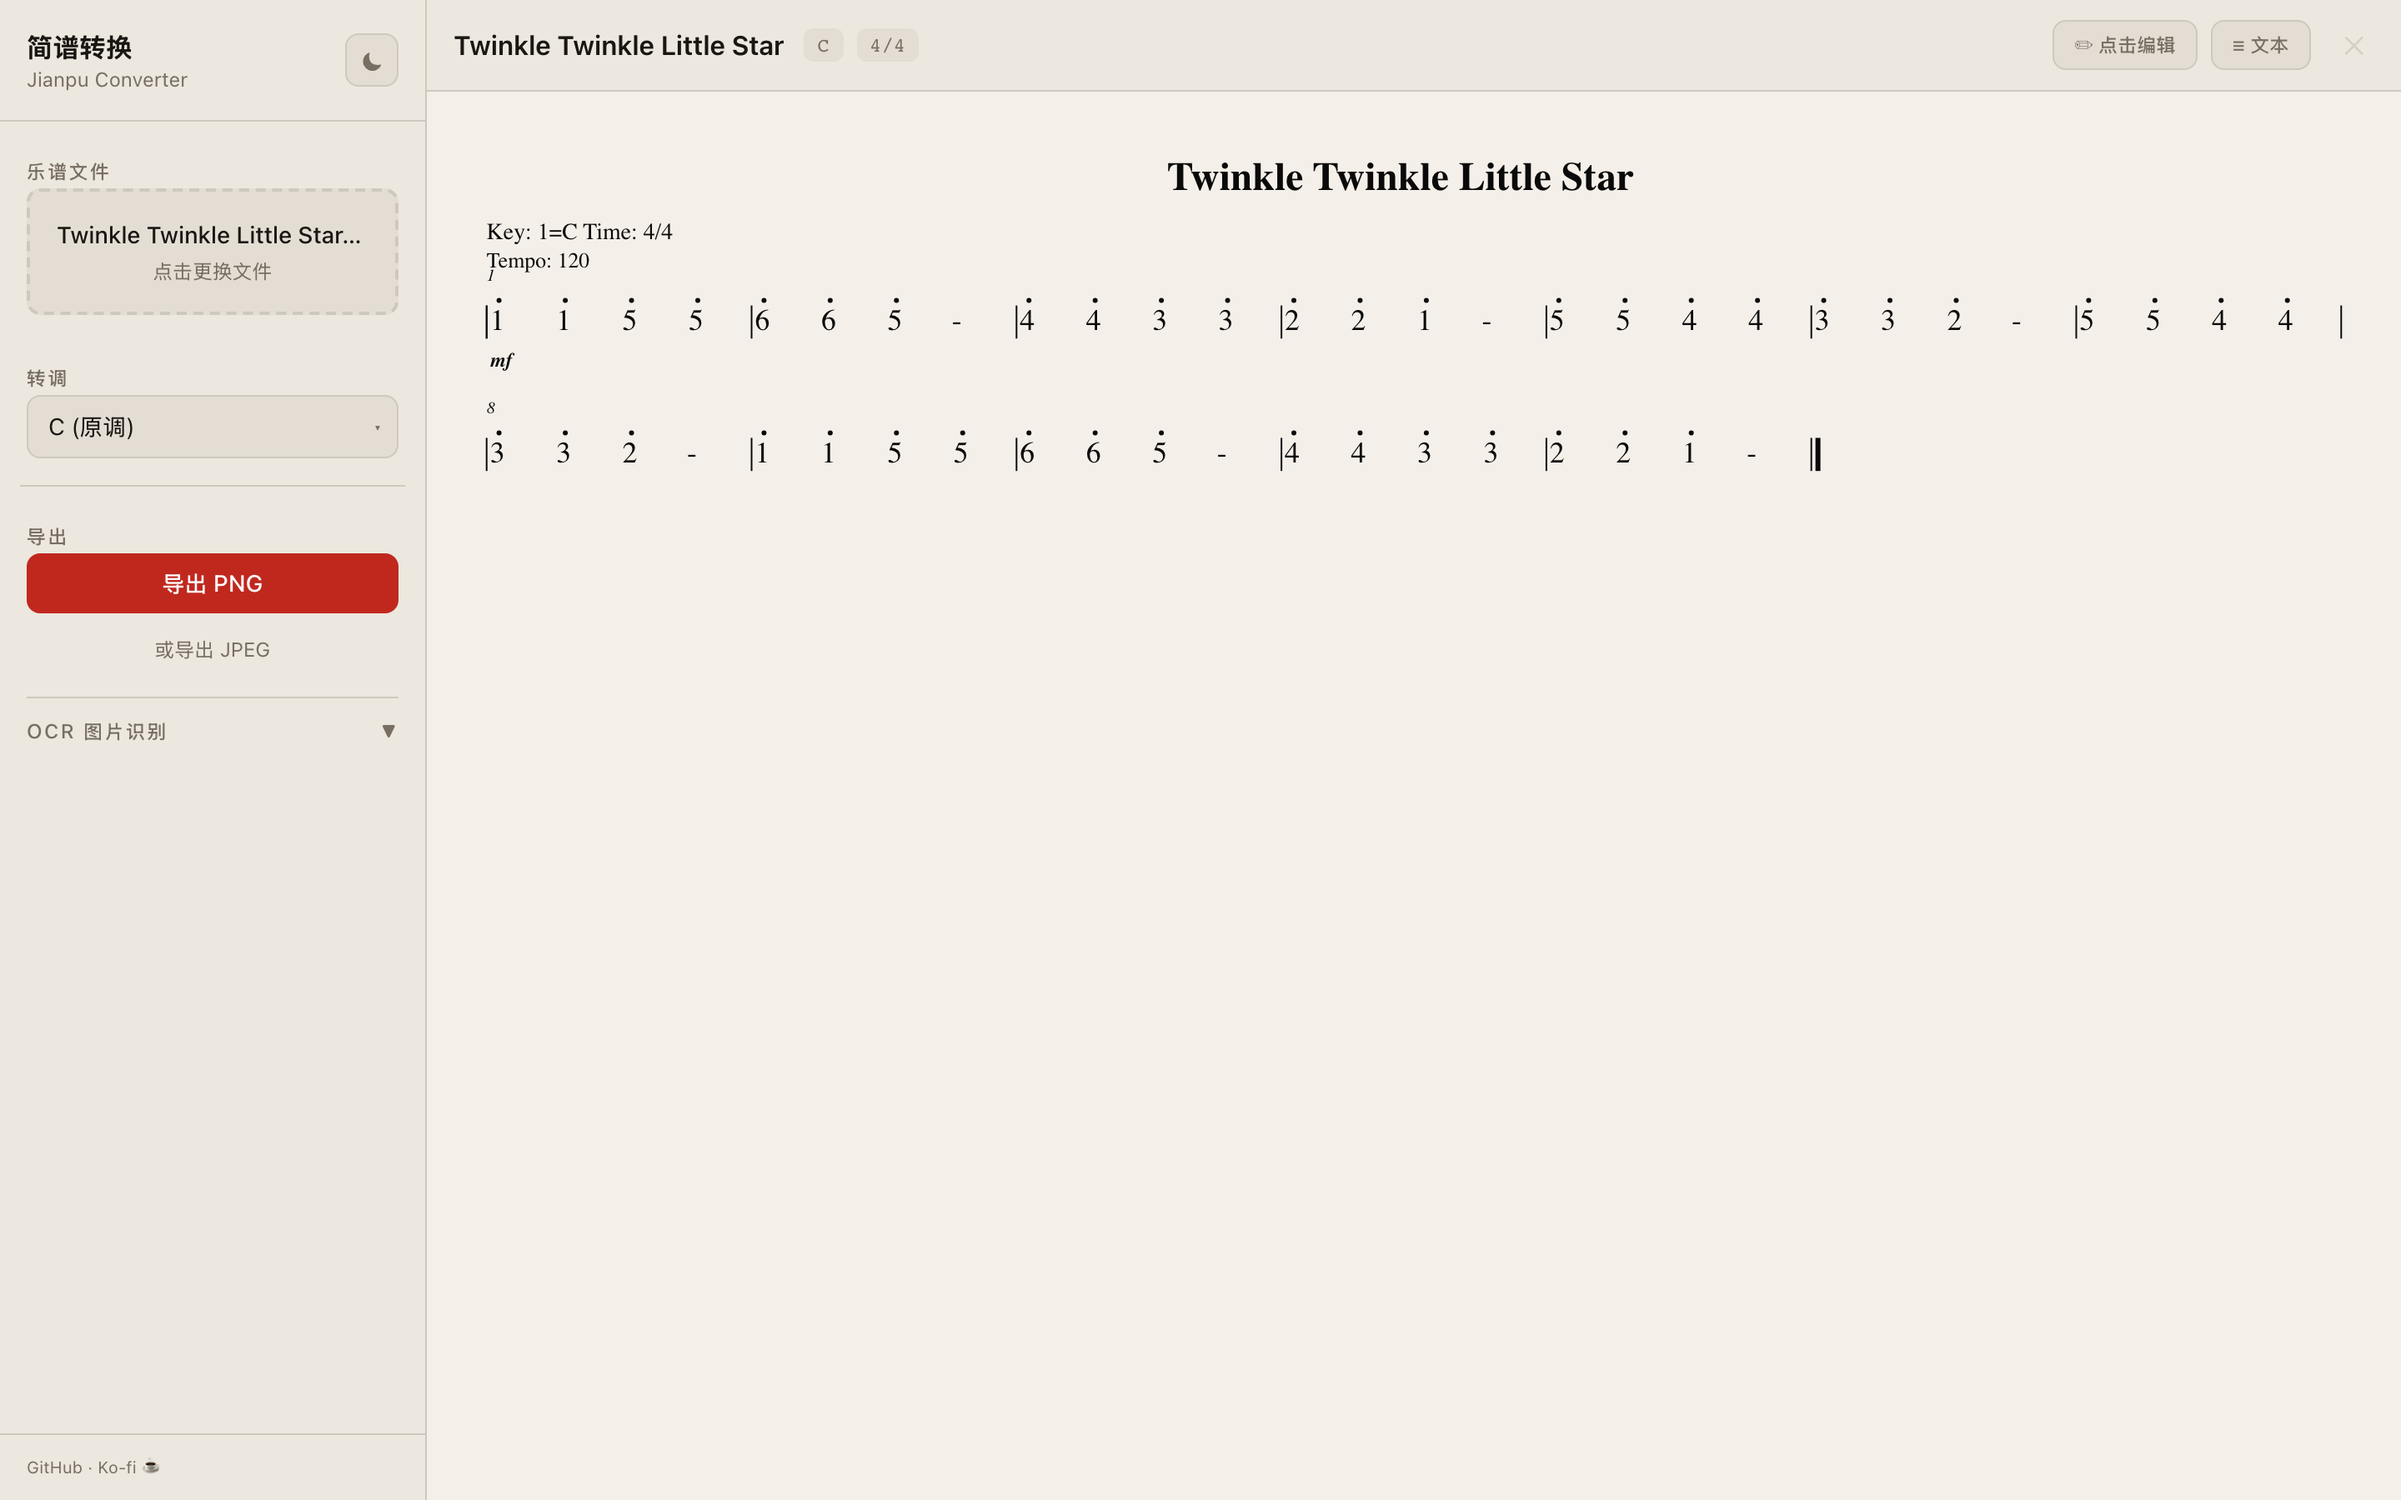
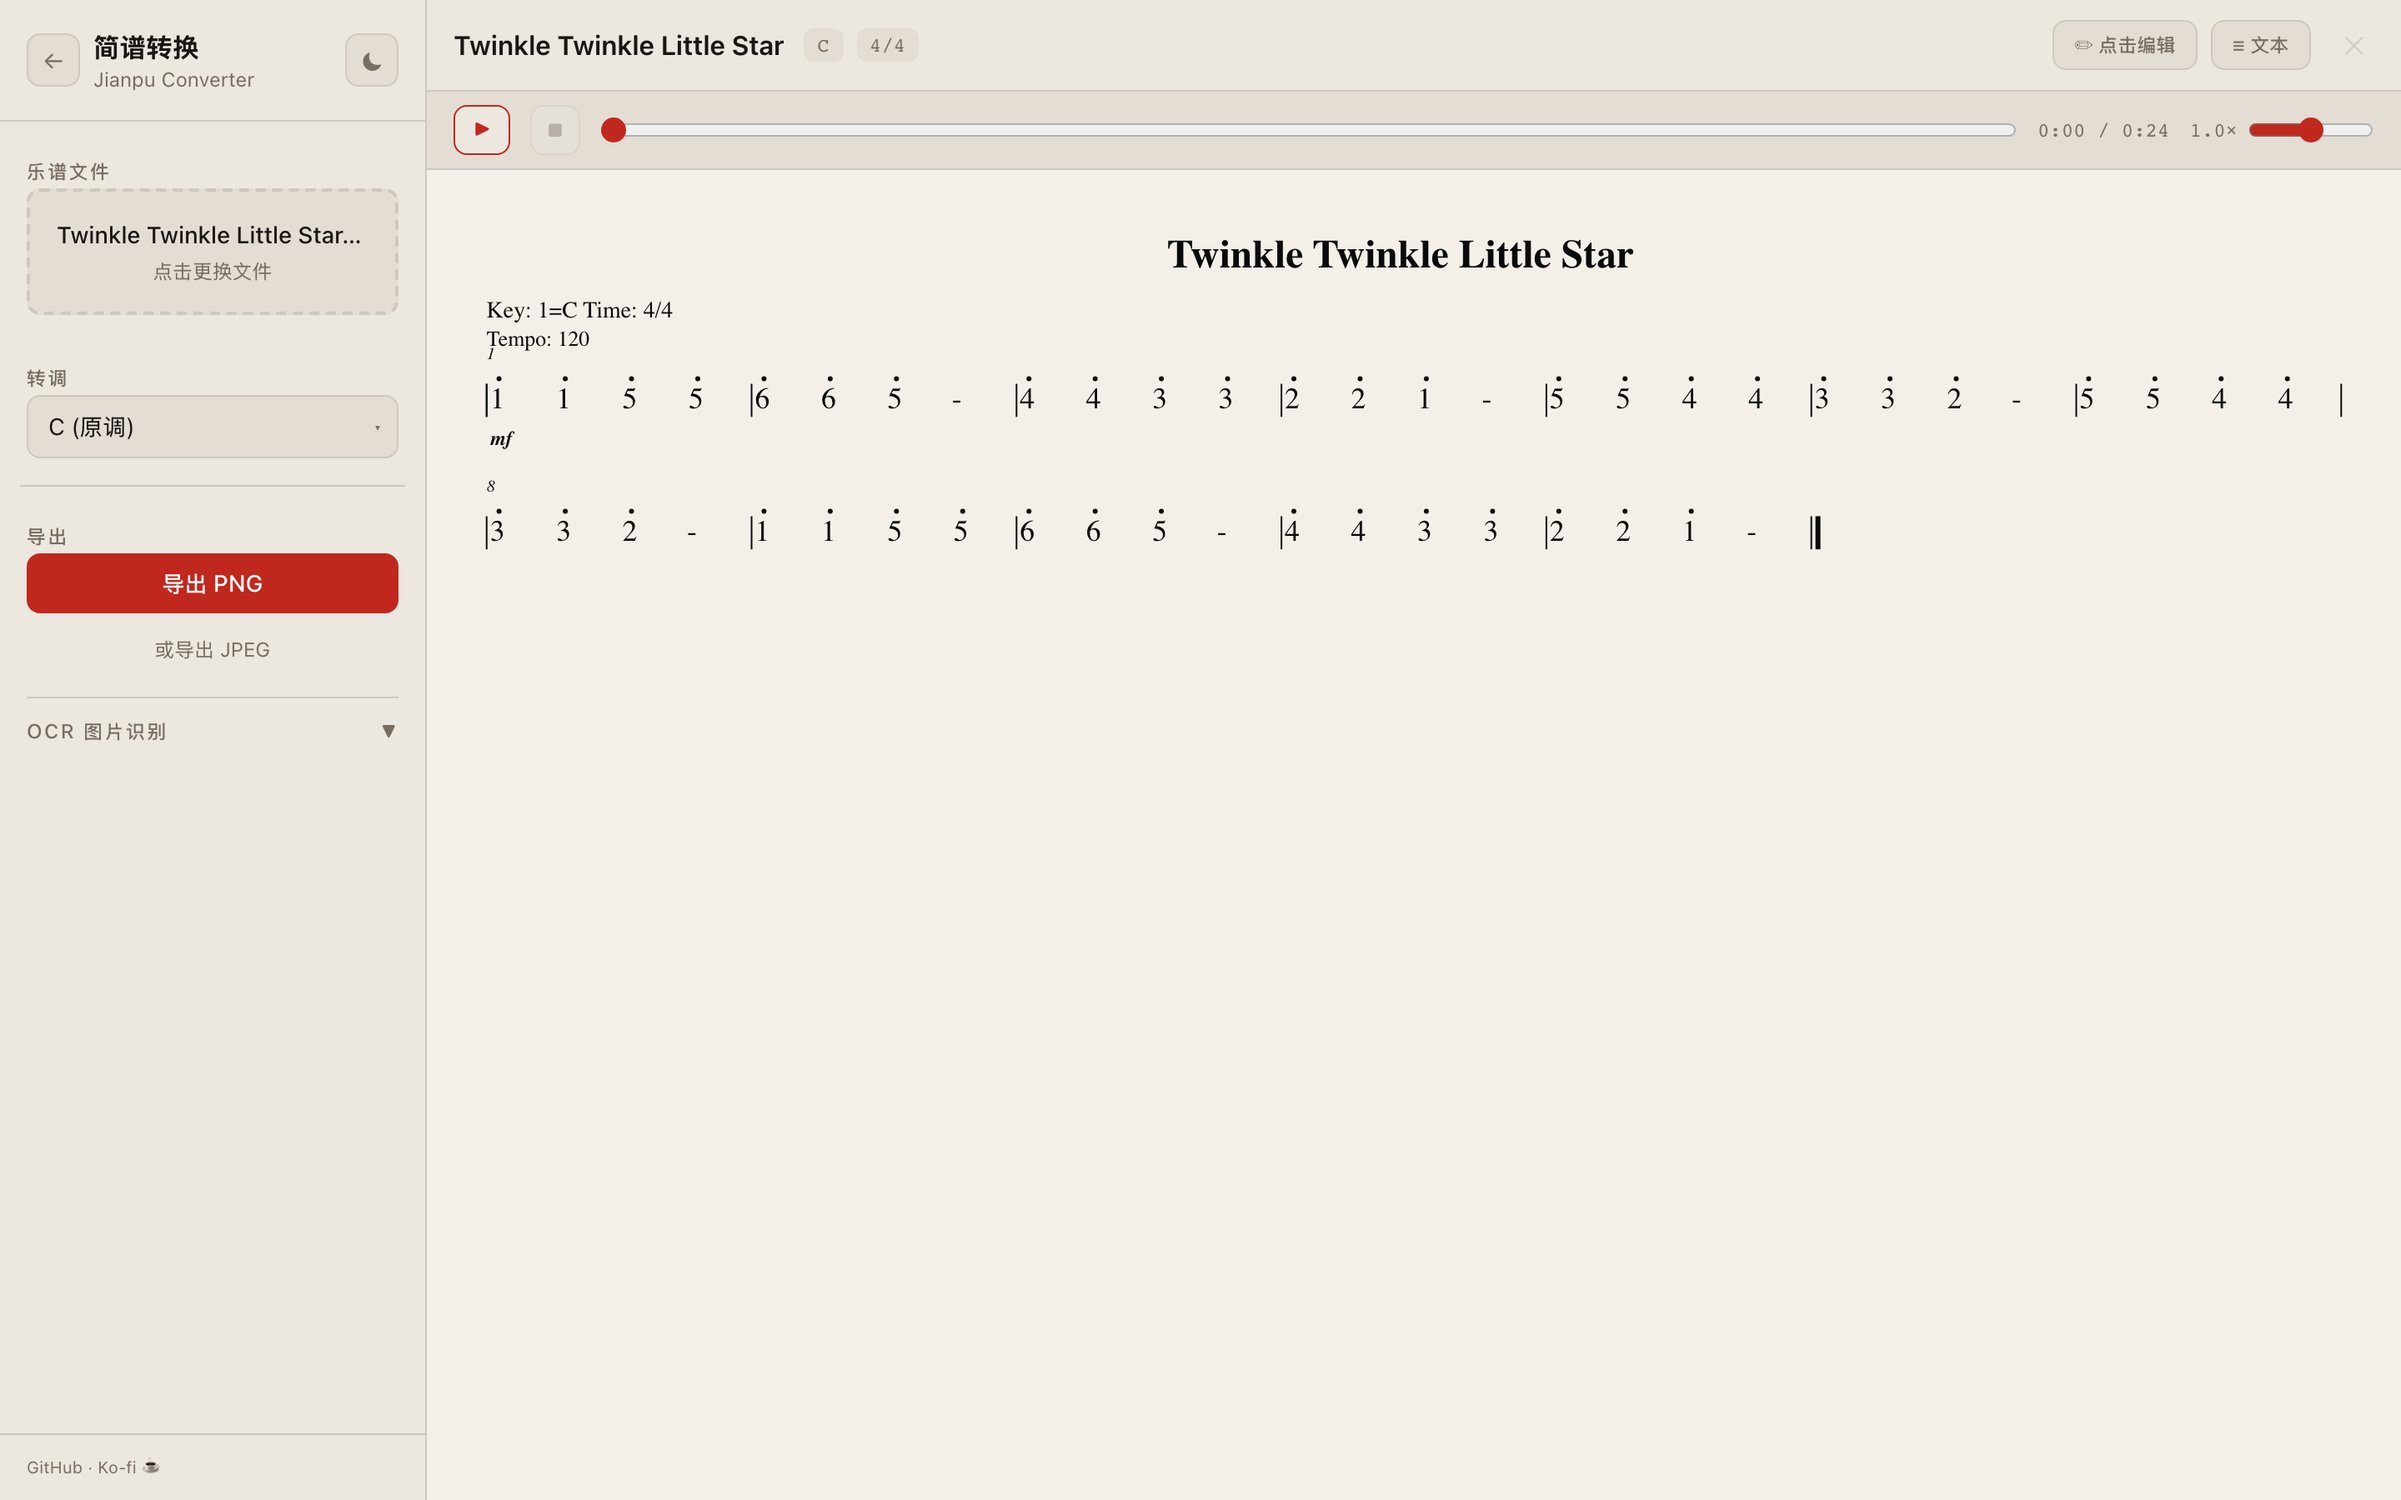
docs(readme): playback screenshot, Tone.js in tech stack, refreshed structure
- screenshots.mjs captures a real mid-play state (11-playback-light):
  the sounding note is highlighted red with the progress bar, clock and
  speed slider underway. Needs --autoplay-policy=no-user-gesture-required,
  since headless Chromium otherwise blocks Tone.start() and nothing paints.
- README: playback shot as a full-width row with a caption, Tone.js added
  to the English tech-stack table (the 中文 one already had it), and the
  project structure refreshed with playback.ts, tonePlayer.ts,
  usePlayback.ts, PlaybackBar.tsx, cropTools.ts, ImageCropper.tsx,
  test-parser.ts and screenshots.mjs.
- All 10 pre-existing screenshots regenerated (06 and 10 had gone missing).
- CLAUDE.md: drop the real-dizi-samples roadmap item at the user's request.

Claude-Session: https://claude.ai/code/session_01LjjoiMK1pty175Br7W356F

diff --git a/README.md b/README.md
@@ -18,7 +18,12 @@
     <td><img src="docs/screenshots/07-text-editor-format-light.png" alt="Route B text editor with format reference" /></td>
     <td><img src="docs/screenshots/08-ocr-settings-light.png" alt="OCR settings panel" /></td>
   </tr>
+  <tr>
+    <td colspan="2"><img src="docs/screenshots/11-playback-light.png" alt="Playback in progress — the sounding note is highlighted in red while the progress bar, clock and speed slider track the performance" /></td>
+  </tr>
 </table>
+
+<p align="center"><em>Playback mid-performance: the sounding note turns red as it plays, with a seekable progress bar and a 0.5×–1.5× speed slider.</em></p>
 
 ---
 
@@ -82,6 +87,7 @@ As a flute player in a Chinese orchestra, I built this tool to automate that con
 | [Zustand](https://zustand-demo.pmnd.rs/) | Lightweight global state |
 | [Radix UI](https://www.radix-ui.com/) | Accessible primitives (dialog, select, tooltip) |
 | [@tonejs/midi](https://github.com/Tonejs/Midi) | MIDI file parsing |
+| [Tone.js](https://tonejs.github.io/) | Playback engine — lazy-loaded, only downloaded when you press play |
 | [JSZip](https://stuk.github.io/jszip/) | `.mxl` compressed file extraction |
 | [pdfjs-dist](https://github.com/mozilla/pdf.js/) | Render PDF pages to image for OCR (lazy-loaded) |
 | [Google Gemini](https://ai.google.dev/) | Vision AI for image OCR (default, via Worker proxy) |
@@ -101,7 +107,10 @@ Music-Score-Converter/
 │   ├── JIANPU_FORMAT.md          — Route B text editor format spec
 │   └── screenshots/              — README screenshots
 ├── scripts/
-│   └── test-roundtrip.ts         — Route B serialize/parse round-trip tests
+│   ├── test-roundtrip.ts         — Route B + renderer + OCR + crop + playback tests
+│   ├── test-parser.ts            — MusicXML import tests (via linkedom)
+│   └── screenshots.mjs           — README screenshot capture (Playwright)
+├── tests/                        — Sample scores used for manual verification
 ├── worker/                       — Optional Cloudflare Worker (OCR proxy)
 │   ├── src/index.ts              — OpenAI-shape → Gemini translator
 │   ├── wrangler.toml
@@ -112,23 +121,29 @@ Music-Score-Converter/
 │   │   ├── EditTextOverlay.tsx   — Route B full-screen text editor
 │   │   ├── ExportButtons.tsx     — PNG / JPEG export
 │   │   ├── FileUpload.tsx        — Drag & drop / file picker
+│   │   ├── ImageCropper.tsx      — Box-select crop (PDF page / image → cropped PNG)
 │   │   ├── LandingPage.tsx       — Pre-conversion welcome screen
 │   │   ├── OcrSection.tsx        — AI image OCR panel
 │   │   ├── OcrSettings.tsx       — BYOK provider / model / API key modal
 │   │   ├── PartSelector.tsx      — Multi-part MusicXML selector
 │   │   ├── PdfPagePicker.tsx     — PDF thumbnail grid for picking a page
+│   │   ├── PlaybackBar.tsx       — Transport strip (play/pause/stop, seek, speed)
 │   │   ├── ScoreOutput.tsx       — Rendered SVG container
 │   │   ├── Sidebar.tsx           — Upload + options + export sidebar
 │   │   ├── Toolbar.tsx           — Top toolbar with editor entry points
 │   │   └── TransposeSelect.tsx   — Key transposition dropdown
 │   ├── hooks/
 │   │   ├── useFileHandler.ts     — File parsing + render orchestration
-│   │   └── useOcr.ts             — OCR runner (delegates to vision adapter)
+│   │   ├── useOcr.ts             — OCR runner (delegates to vision adapter)
+│   │   └── usePlayback.ts        — Playback orchestration + highlight/progress loop
 │   ├── lib/
 │   │   ├── abcParser.ts          — ABC notation parser
+│   │   ├── cropTools.ts          — Display → source pixel mapping for the cropper
 │   │   ├── editor.ts             — Route B text serialize / parse + position tracking
 │   │   ├── parser.ts             — MusicXML parser + pitch conversion + transposition
 │   │   ├── pdfTools.ts           — Lazy-loaded pdfjs wrapper
+│   │   ├── playback.ts           — Pure scheduler: repeat/volta expansion → timed events
+│   │   ├── tonePlayer.ts         — Lazy Tone.js audio layer (only file importing tone)
 │   │   ├── renderer.ts           — SVG layout engine
 │   │   ├── downloader.ts         — PNG / JPEG export
 │   │   ├── utils.ts              — Shared helpers

diff --git a/CLAUDE.md b/CLAUDE.md
@@ -410,7 +410,6 @@ Scopes: `renderer`, `parser`, `app`, `downloader`, `ui`
 - [x] Phase 3 OCR: box-select crop — extract one instrument's row from a 总谱 PDF/image before OCR (single-box, iterate)
 
 ### Pending
-- [ ] Playback: real dizi samples instead of a synth (needs hosted audio files)
 - [ ] 笛子 ornaments — parse MusicXML `<ornaments>` + render symbols; Route B syntax extension: `1[tr]` 颤音, `1[~]` 波音, `1[又]` 叠音, `1[打]` 打音, `1[*]` 花舌
 - [ ] Multi-voice rendering (long term — architectural change)
 
